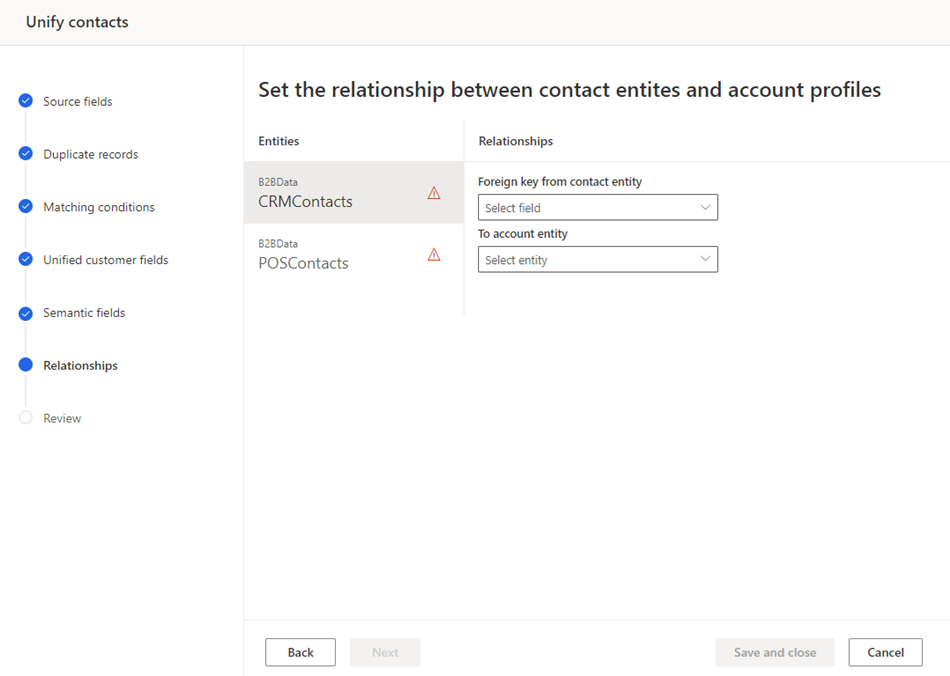
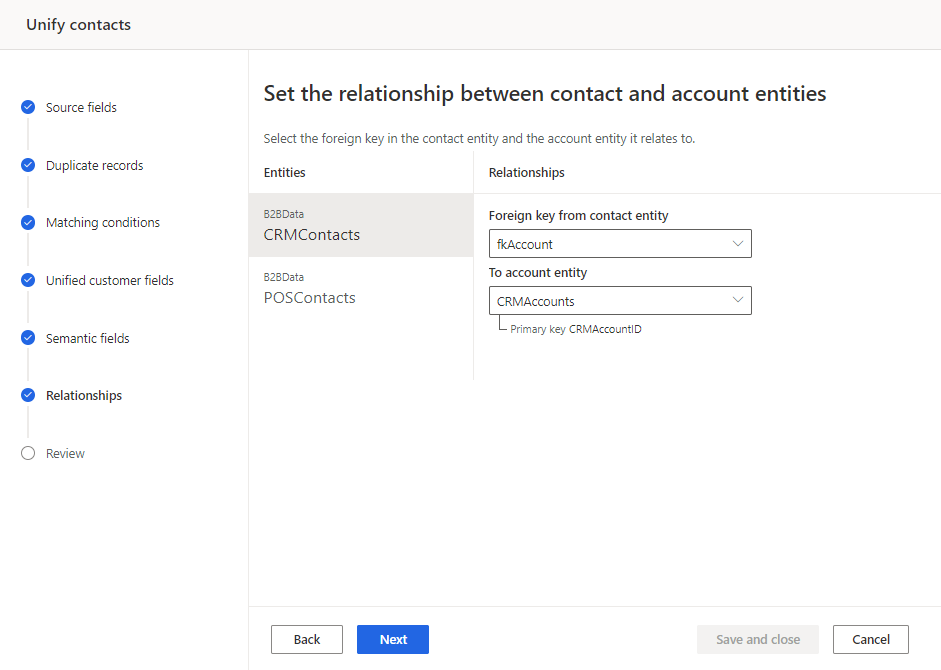
Review comments

diff --git a/ci-docs/data-unification.md b/ci-docs/data-unification.md
@@ -2,13 +2,13 @@
 title: "Create a unified view of your customers"
 description: "Go through the data unification process with your data to create a single master dataset of account or customer profiles."
 recommendations: false
-ms.date: 07/27/2022
+ms.date: 08/05/2022
 ms.reviewer: v-wendysmith
 
 ms.subservice: audience-insights
 ms.topic: overview
-author: mukeshpo
-ms.author: mukeshpo
+author: sstabbert
+ms.author: sstabbert
 manager: shellyha
 
 searchScope: 
@@ -18,7 +18,7 @@ searchScope:
 
 # Data unification overview
 
-After [setting up the data sources](data-sources.md), you can unify the data. Data unification lets you unify once-disparate data sources into a single master dataset that provides a unified view of that data. For individual consumers (B-to-C) where the data is centered around individuals, unification provides a unified view of your customers. For business accounts (B-to-B) where the data is centered around accounts, unification provides a unified view of your accounts and a unified view of your contacts.
+After [setting up the data sources](data-sources.md), you can unify the data. Data unification lets you unify once-disparate data sources into a single master dataset that provides a unified view of that data. For individual consumers (B-to-C) where the data is centered around individuals, unification provides a unified view of your customers. For business accounts (B-to-B) where the data is centered around accounts, unification provides a unified view of your accounts. [Contact unification (preview)](data-unification-contacts.md) allows contacts for those accounts to be separately unified and associated with the accounts.
 
 Data can be unified on a single entity or multiple entities.
 
@@ -38,10 +38,10 @@ The unification process maps customer data from your data sources, removes dupli
 
 # [Business accounts (B-to-B)](#tab/b2b)
 
-Account and contact unification are unified separately. The processes are similar in that they both map data from your data sources, remove duplicates, match the data across entities, and create a unified profile. In contact unification, additional steps include defining semantic mapping for your contacts and creating the relationship between contacts and accounts.
+After unifying accounts, you can optionally unify contacts (preview) for those accounts and link the unified contacts to the unified accounts. The processes are similar in that they both map data from your data sources, remove duplicates, match the data across entities, and create a unified profile. In contact unification, additional steps include defining semantic mapping for your contacts and creating the relationship between contacts and accounts.
 
 > [!NOTE]
-> Account and contact files must have a unique key that connects them. For example, an account ID that exists in the account file and contact file that ties the account and contact together.
+> Account and contact records must have a unique key that connects them. For example, an account ID that exists in the account file and contact file that ties the account and contact together.
 
 Unification is performed in the following order:
 
@@ -55,7 +55,7 @@ Unification is performed in the following order:
 
 1. [Review](review-unification.md) and create the unified profile.
 
-1. After unifying your accounts, [unify your contacts](data-unification-contacts.md).
+1. After unifying your accounts, [unify your contacts](data-unification-contacts.md) (preview).
 
 ---
 

diff --git a/ci-docs/data-unification-contacts.md b/ci-docs/data-unification-contacts.md
@@ -2,7 +2,7 @@
 title: "Create a unified contact profile"
 description: "Go through the data unification process to create a single master dataset of contacts."
 recommendations: false
-ms.date: 07/27/2022
+ms.date: 08/05/2022
 ms.reviewer: v-wendysmith
 
 ms.subservice: audience-insights
@@ -18,13 +18,24 @@ searchScope:
   - customerInsights
 ---
 
-# Create a unified contact profile
+# Create a unified contact profile (preview)
 
-After [unifying business accounts](map-entities.md), unify the contacts. The contact unification process maps contact data from your data sources, removes duplicates, matches the data across entities, sets up semantic mapping, creates relationships between contacts and accounts, and then creates a unified contact profile.
+After [unifying business accounts](map-entities.md), you can optionally unify contacts for those accounts and link the unified contacts to the unified accounts. The contact unification process maps contact data from multiple data sources, removes duplicates, matches the data across entities, sets up semantic mapping, creates relationships between contacts and accounts, and then creates a unified contact profile.
 
 The following steps and images reflect the first time you go through the contact unification process. To edit existing contact unification settings, see [Update the unification settings](data-unification-update.md).
 
 The first few steps are identical to the unifying accounts steps.
+
+## Prerequisites
+
+Account and contact records must have a unique key (called a foreign key) that connects them. For example, an account ID that exists in the account record and contact record that ties the account and contact together.
+
+## Limitations
+
+- Contacts without a link to an account are dropped.
+- If an account is deduplicated, a winner record is identified based on the merge preferences. Loser records are not selected and therefore are dropped. Contacts associated with the losing records are dropped.
+- An account can have multiple contacts, but a contacts is linked to a single account.
+- The contact attributes mapped in the semantic mapping step are the only attributes that can display on the Customer card. However, 17 attributes are available.
 
 ## Initial contact unification steps
 
@@ -48,7 +59,7 @@ The first few steps are identical to the unifying accounts steps.
 
 ## Define the semantic fields for unified contacts
 
-This step in the unification process maps your unified contact fields to semantic types. Semantic mapping lets you map your non-activity data to pre-defined schemas. These schemas help Customer Insights to better understand your data attributes. You can map your [contact activity](activities.md#define-a-contact-activity) data to the schemas.
+This step in the unification process maps your unified contact fields to semantic types. In B-to-B, the customer cards show accounts. When the card is selected, all the contacts associated with the account display. The fields you map in this step are the fields that will display on the cards.
 
 1. Select the semantic type that maps to each unified field. Select **None** if a semantic type is not available.
 

diff --git a/ci-docs/customer-profiles.md b/ci-docs/customer-profiles.md
@@ -74,7 +74,7 @@ Customer details include:
 **Customer profile tile** shows the different values from the unified *Customer* entity. If a field has no value for the selected customer profile, it won't show except for the address field. The tile is structured into sections:
 
 - The first section shows a predefined set of fields followed by all fields that are part of the search & filter index. All address-related fields are combined into a single line, which shows even if the profile contains no address information.
-- **Contacts for this customer** display in environments for business accounts. Each contact is shown with their fields. Empty fields are hidden.
+- **Contacts for this customer** display in environments for business accounts (B-to-B). Each contact is shown with their fields. Empty fields are hidden.
 - **Additional fields** shows the remaining fields of the selected customer, except IDs.
 - **IDs** lists all IDs under their corresponding entity name. Fields are identified as IDs by their semantics.
 

diff --git a/ci-docs/remove-duplicates.md b/ci-docs/remove-duplicates.md
@@ -2,7 +2,7 @@
 title: "Remove duplicates before unifying data"
 description: "The second step in the unification process is selecting which record to keep when duplicates are found."
 recommendations: false
-ms.date: 04/22/2022
+ms.date: 08/01/2022
 
 ms.subservice: audience-insights
 ms.topic: tutorial
